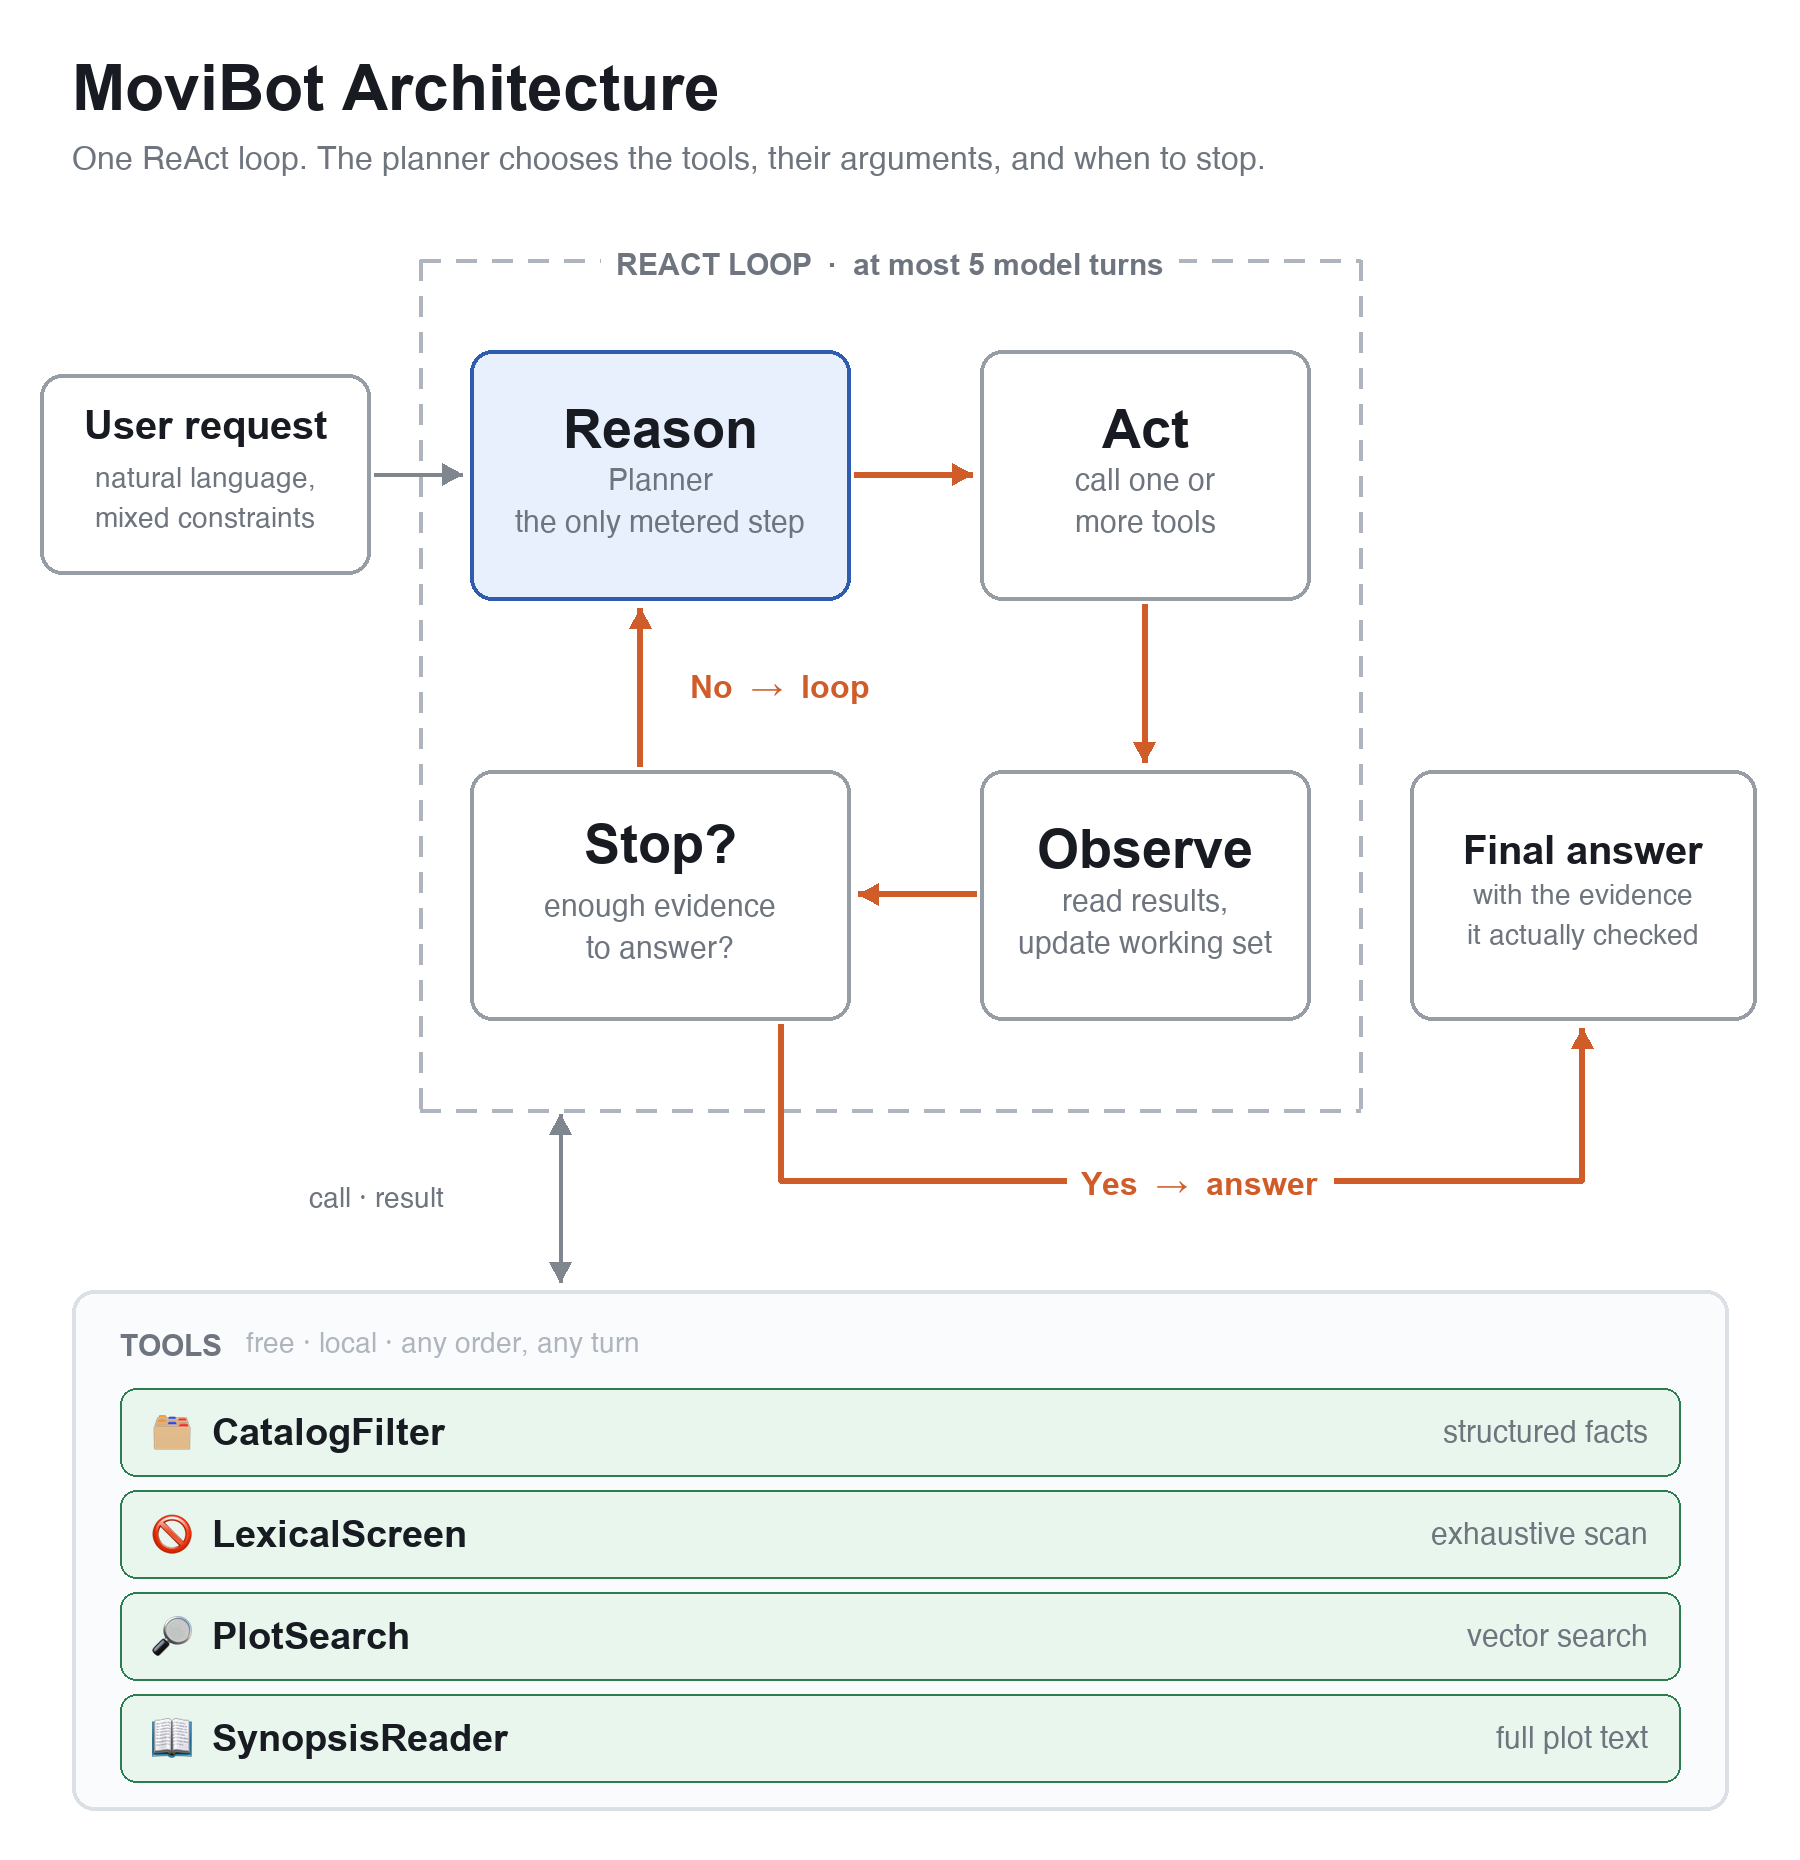
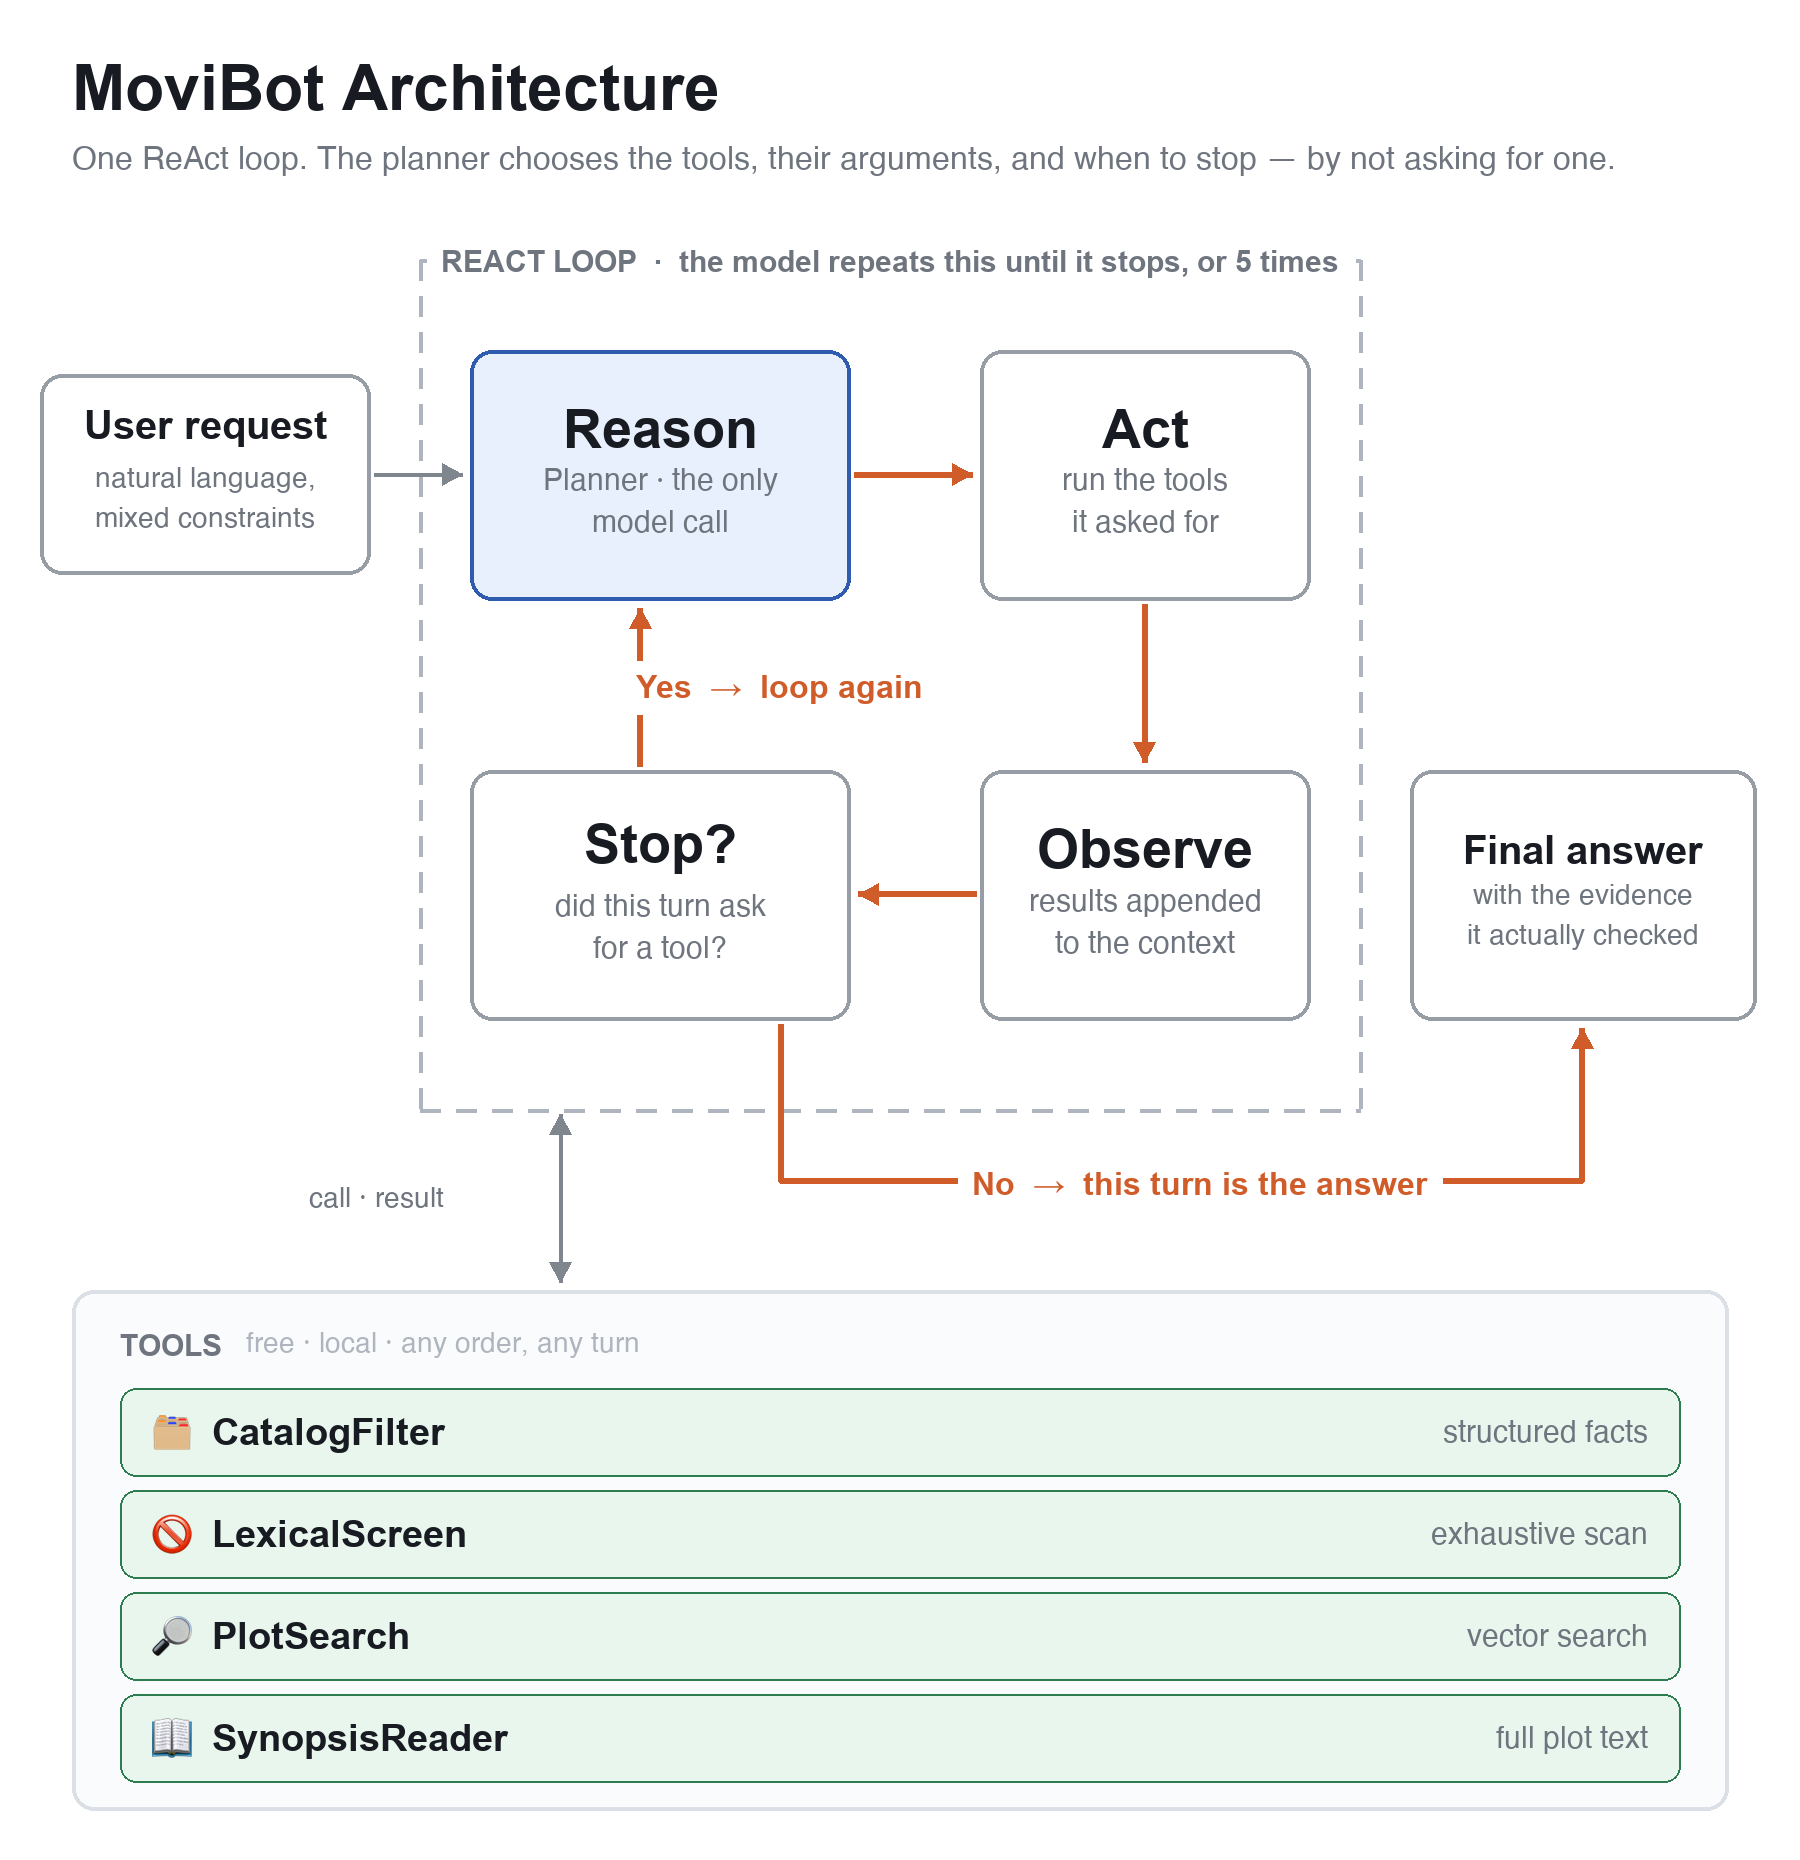
Treat a weak search as a failed search, not something to narrate
Asked for a film where someone pretends to love another to seize power,
the agent passed the phrasing through unchanged, got five films in a
0.29-0.35 similarity band, and recommended three of them while
explaining that none of them actually fit. The right answer was in the
corpus verbatim: Hans tells Anna 'if only there was someone here who
loved you', then explains he went looking for a royal family to marry
into because he had no claim on his own throne.

Measured, six queries: abstract phrasings top out at 0.3423, 0.3492 and
0.3528; concrete ones score 0.6635, 0.4767 and 0.4380. The gap is clean,
so search_plots now returns a weak_match advisory under 0.40 -- reading
the score back to the planner as a verdict, since it had the number all
along. Advisory, never a filter: a real answer can score low.

Three changes besides: the concrete-query rule moves into the
search_plots schema, where the query is actually written, rather than
sitting 2,000 tokens away in the prompt; the prompt now says that
writing 'but this does not really fit' about your own recommendation
means the search failed and must be re-run; and rejected films may never
be listed as options -- 'Also possible' turned two rejections into
recommendations.

The diagram said 'at most 5 model turns' and 'the only metered step',
which name a number and a cost without saying what a turn is or why that
box differs. It now says the model repeats the loop until it stops,
[…]

diff --git a/agent/tools.py b/agent/tools.py
@@ -87,6 +87,18 @@ MAX_SYNOPSIS_CHARS = 6000
 
 MAX_SEARCH_RESULTS = 25
 
+# Below this, the top hit is usually a sign the query was phrased as a theme
+# rather than as an event. Measured on this corpus: three abstract queries
+# ("a film about the dangers of vanity", "a story exploring themes of identity
+# and belonging", "someone pretends to love another to seize power") topped out
+# at 0.3423, 0.3492 and 0.3528; three concrete ones ("a rat cooks in a Paris
+# restaurant kitchen", "toys come alive when their owner leaves the room", "he
+# says he never loved her and leaves her to die so he can take the throne")
+# scored 0.6635, 0.4767 and 0.4380. The gap is clean, and it is the difference
+# between finding Frozen for the Hans betrayal and never seeing it at all.
+# Advisory only: a real answer can score below this, so it warns, never filters.
+WEAK_MATCH_SIMILARITY = 0.40
+
 # Each search hit carries the passage that matched, as evidence. Long enough
 # to judge a story beat, short enough that 25 of them stay affordable.
 MAX_PASSAGE_CHARS = 1200
@@ -484,7 +496,7 @@ def search_plots(
             "passages_matched": hit["passage_count"],
         })
 
-    return {
+    out: dict[str, Any] = {
         "query": query,
         "searched_within": "whole catalog" if scoped is None else f"{len(scoped)} films in scope",
         "returned": len(results),
@@ -498,6 +510,24 @@ def search_plots(
             if not results else None
         ),
     }
+
+    # The score the planner already has, read back to it as a verdict. Asked
+    # "a film where someone pretends to love another to seize power", the
+    # abstract phrasing returned five films in a 0.29-0.35 band and the answer
+    # named three of them while explaining that none actually fit. The number
+    # saying so was in the result all along.
+    if results and results[0]["similarity"] < WEAK_MATCH_SIMILARITY:
+        out["weak_match"] = (
+            f"Top similarity {results[0]['similarity']:.2f}, below "
+            f"{WEAK_MATCH_SIMILARITY}. On this corpus that band means the query "
+            "was probably phrased as a theme rather than as an event, and these "
+            "films are unlikely to fit. Re-run it as something a plot summary "
+            "would literally narrate -- name the action, who does it and what "
+            "happens -- before answering from these results. Do not recommend a "
+            "film here while explaining that it does not match."
+        )
+
+    return out
 
 
 def _trim(text: str, limit: int) -> str:
@@ -760,7 +790,17 @@ TOOL_SCHEMAS: list[dict[str, Any]] = [
                 "properties": {
                     "query": {
                         "type": "string",
-                        "description": "The story in plain language. Describe the plot, not the metadata.",
+                        "description": (
+                            "The EVENT a plot summary would literally narrate, "
+                            "not the theme the user named. This is the single "
+                            "highest-leverage choice you make here. Do not pass "
+                            "the request through unchanged: translate it. "
+                            "'Someone pretends to love another to seize power' "
+                            "scores 0.35 and misses the film entirely; 'he says "
+                            "he never loved her and leaves her to die so he can "
+                            "take the throne' scores 0.44 and returns it first. "
+                            "Name who does what, and what happens as a result."
+                        ),
                     },
                     "ignore_scope": {
                         "type": "boolean",

diff --git a/scripts/generate_architecture_diagram.py b/scripts/generate_architecture_diagram.py
@@ -219,7 +219,7 @@ def main() -> None:
     _text(draw, (36, 26), "MoviBot Architecture", INK, 32, bold=True)
     _text(draw, (36, 72),
           "One ReAct loop. The planner chooses the tools, their arguments, "
-          "and when to stop.", MUTED, 16)
+          "and when to stop \u2014 by not asking for one.", MUTED, 16)
 
     # ---- the loop ------------------------------------------------------
     # The frame carries the turn bound, because "bounded" is the honest
@@ -227,7 +227,8 @@ def main() -> None:
     frame = (210, 130, 680, 555)
     _dashed_rect(draw, frame)
     _label(draw, 445, 130,
-           f"REACT LOOP  ·  at most {loop.MAX_ROUNDS} model turns",
+           f"REACT LOOP  ·  the model repeats this until it stops, "
+           f"or {loop.MAX_ROUNDS} times",
            colour=MUTED, size=15, bold=True)
 
     reason = (235, 175, 425, 300)
@@ -235,14 +236,18 @@ def main() -> None:
     observe = (490, 385, 655, 510)
     stop = (235, 385, 425, 510)
 
-    _box(draw, reason, "Reason", ("Planner", "the only metered step"),
+    _box(draw, reason, "Reason", ("Planner \u00b7 the only", "model call"),
          fill=PAID_FILL, line=PAID_LINE, title_size=27, sub_size=15)
-    _box(draw, act, "Act", ("call one or", "more tools"),
+    _box(draw, act, "Act", ("run the tools", "it asked for"),
          title_size=27, sub_size=15)
-    _box(draw, observe, "Observe", ("read results,", "update working set"),
+    _box(draw, observe, "Observe", ("results appended", "to the context"),
          title_size=27, sub_size=15)
-    _box(draw, stop, "Stop?", ("enough evidence", "to answer?"),
+    _box(draw, stop, "Stop?", ("did this turn ask", "for a tool?"),
          title_size=27, sub_size=15)
+    # The exit condition is the model's own output, not a scripted check: a
+    # turn that requests a tool continues the loop, and a turn that requests
+    # none IS the answer. That is what "the model decides when to stop" means
+    # mechanically, so the two edges have to say which way round it is.
 
     # Clockwise, with the return edge closing it. Without that edge the same
     # four boxes read as four stages.
@@ -250,7 +255,7 @@ def main() -> None:
     _arrow(draw, (572, 302), (572, 381), fill=CYCLE, width=3)
     _arrow(draw, (488, 447), (429, 447), fill=CYCLE, width=3)
     _arrow(draw, (320, 383), (320, 304), fill=CYCLE, width=3)
-    _label(draw, 390, 343, "No  →  loop", colour=CYCLE, size=16, bold=True)
+    _label(draw, 390, 343, "Yes  →  loop again", colour=CYCLE, size=16, bold=True)
 
     # ---- request in, answer out ----------------------------------------
     request = (20, 187, 185, 287)
@@ -269,7 +274,8 @@ def main() -> None:
     # nothing to cross.
     _elbow(draw, [(390, 512), (390, 590), (791, 590), (791, 514)],
            fill=CYCLE, width=3)
-    _label(draw, 600, 590, "Yes  →  answer", colour=CYCLE, size=16, bold=True)
+    _label(draw, 600, 590, "No  →  this turn is the answer",
+           colour=CYCLE, size=16, bold=True)
 
     # ---- tools ---------------------------------------------------------
     # An inventory, not a chain: every tool is available on every turn. Left to

diff --git a/agent/prompts.py b/agent/prompts.py
@@ -215,6 +215,18 @@ plot summary if the film fit. If a search returns nothing convincing, re-run \
 it phrased as a different concrete event before concluding the catalog has \
 no match.
 
+**A weak search is a failed search, and you must re-run it rather than \
+narrate it.** Two signals tell you it failed, and you have both before you \
+write anything. The tool says `weak_match` when the top similarity is under \
+0.40, which on this corpus means the query was phrased as a theme. And you \
+say it yourself: the moment you find yourself writing "but this is not \
+really a case of that" about a film you are recommending, the search is what \
+was wrong, not the catalog. Asked for a film where someone pretends to love \
+another to seize power, the abstract phrasing returned five films in a \
+0.29-0.35 band; the concrete phrasing -- he says he never loved her and \
+leaves her to die so he can take the throne -- returned the right film \
+first. Same catalog, same tool, different sentence.
+
 Stop as soon as you can answer. A question answerable by filtering alone \
 should cost one tool call, not three.
 
@@ -258,9 +270,19 @@ default: no phrasing of a request raises it. Fewer is right when fewer \
 genuinely fit, and one is right when one is clearly best. Lead with \
 the strongest. For each, give the title and year, then a sentence or two on \
 why it fits the specific things that were asked for, citing what you actually \
-verified. If you rejected an obvious alternative, say briefly why -- that is \
-often the most useful part of the answer. If a constraint could not be \
-checked, name it rather than glossing over it.
+verified. If a constraint could not be checked, name it rather than glossing \
+over it.
+
+**Everything you list is a recommendation.** A film you looked at and \
+rejected is not an alternative, an "also possible", or a runner-up -- it is a \
+film that does not answer the question, and putting it under a heading that \
+implies otherwise is worse than leaving it out. Saying why you rejected an \
+obvious candidate is genuinely useful, so do it: in prose, in one sentence, \
+plainly labelled as rejected, never as an option the reader can pick from.
+
+If nothing you found actually fits, the answer is that nothing fits. One film \
+you can stand behind beats three you have to apologise for, and zero beats \
+three when zero is the truth.
 
 ON WHAT YOU MAY CLAIM
 
